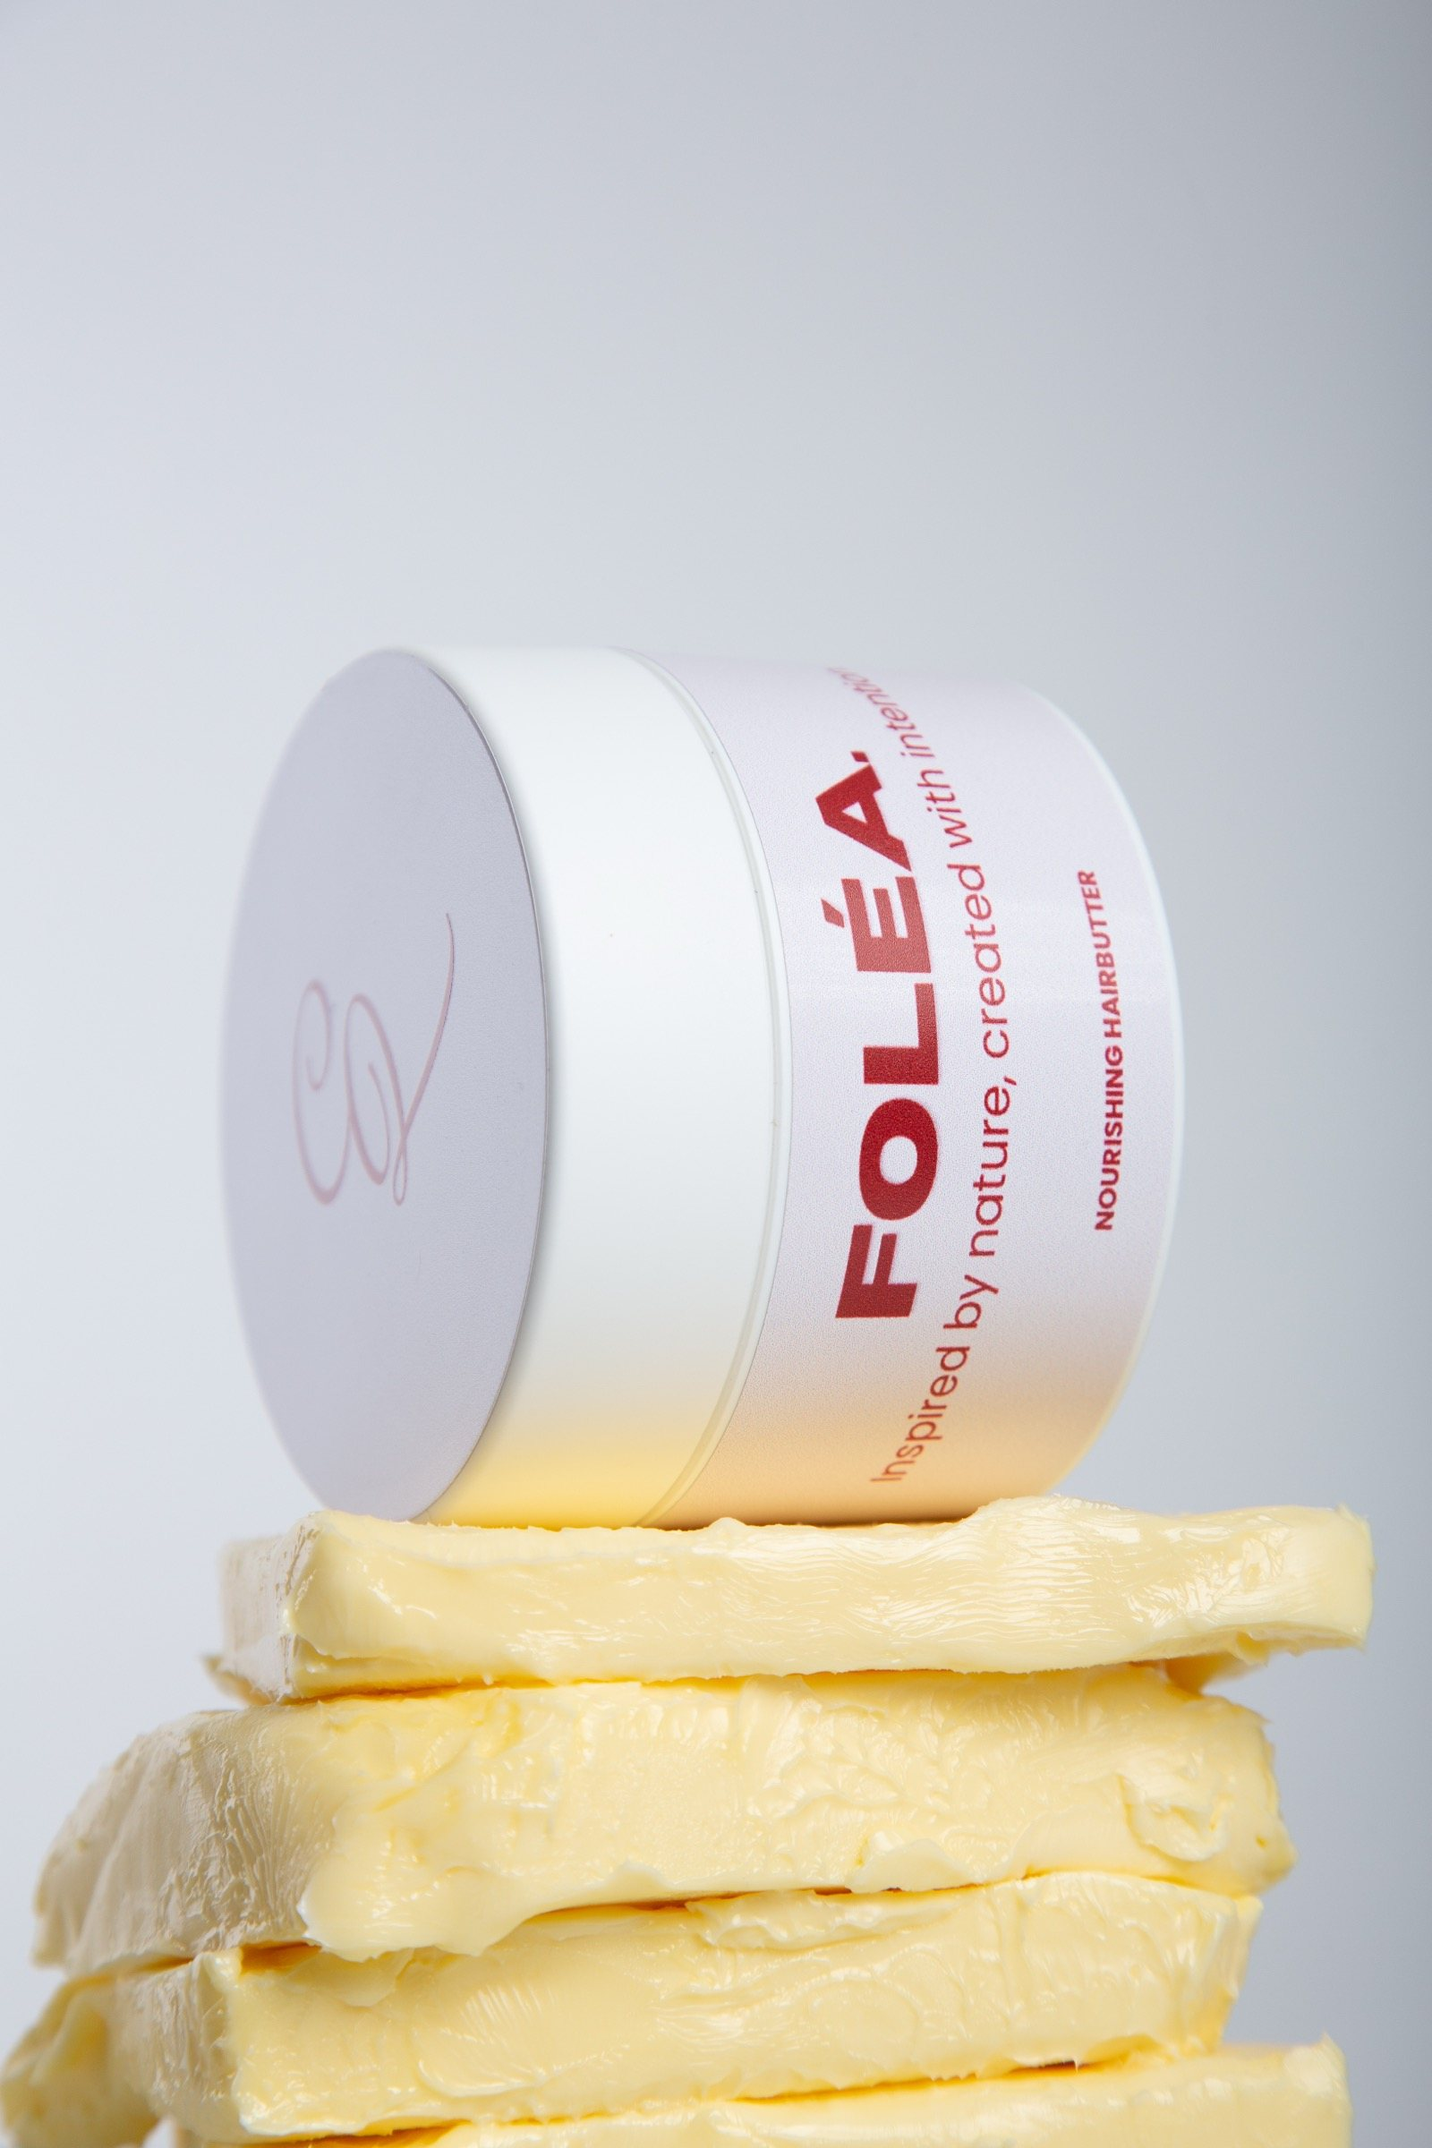
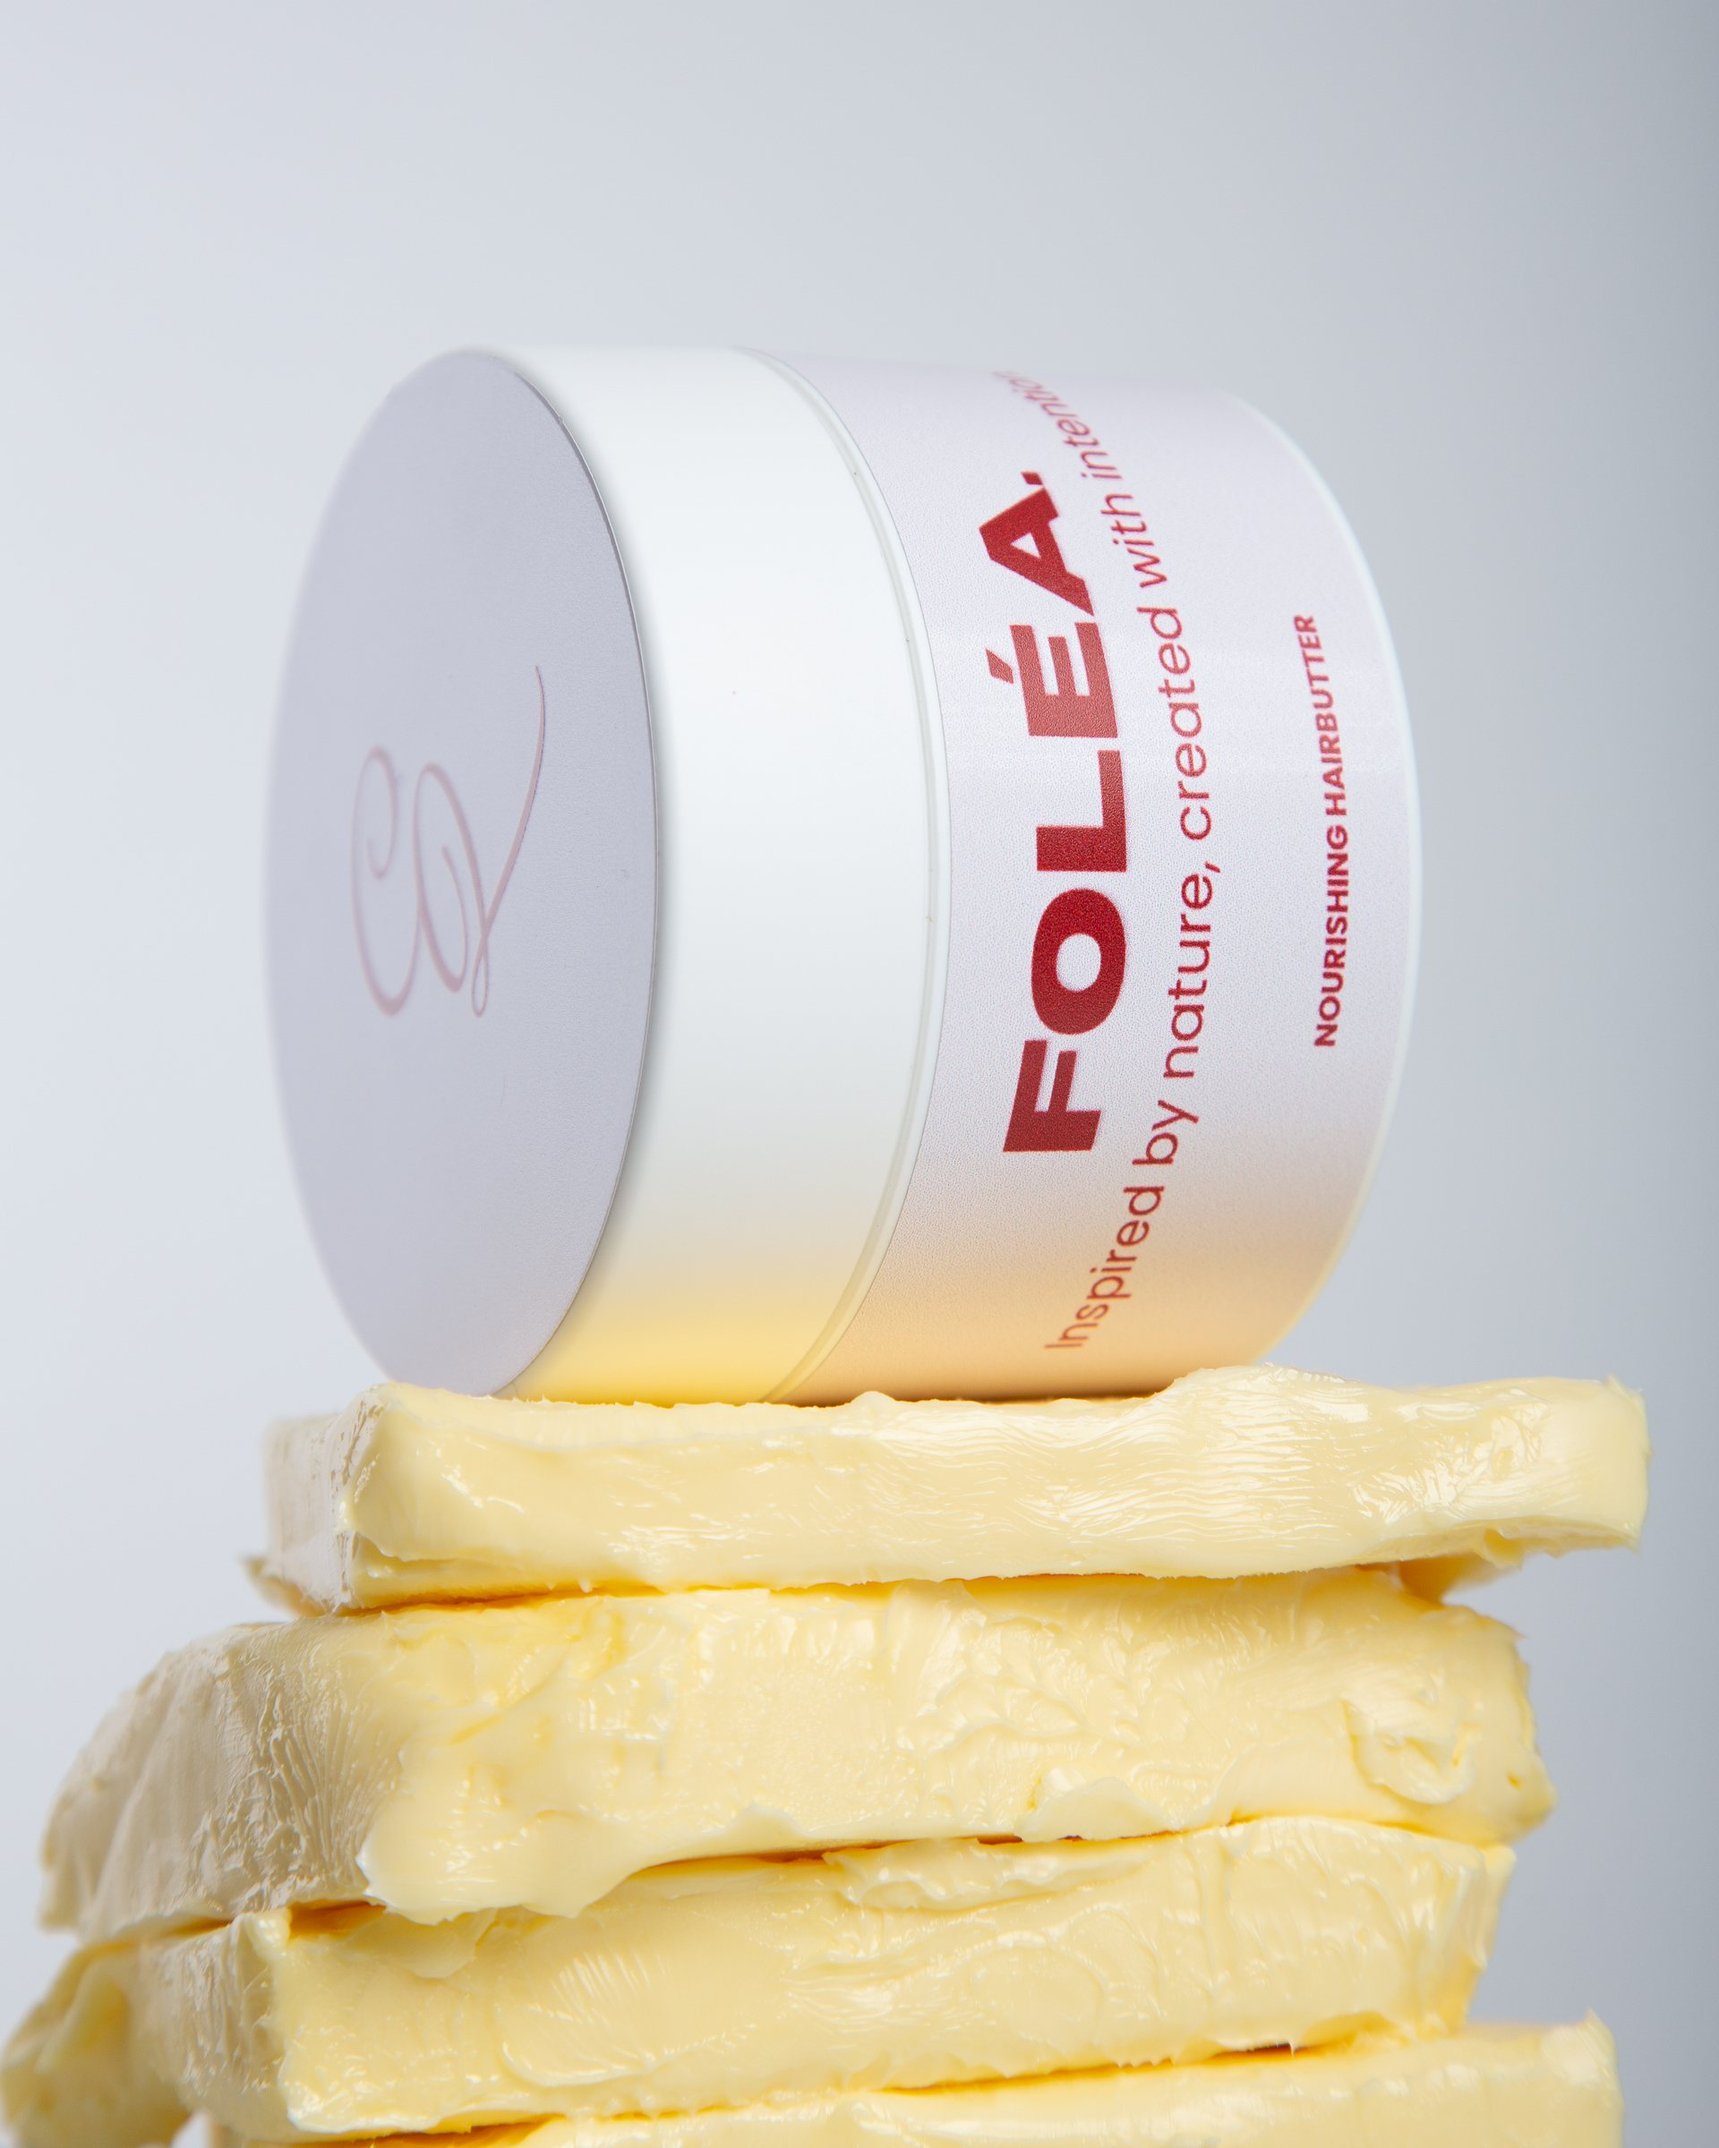
Productfoto's opnieuw uitgesneden vanaf de masters
De klant vond de productfoto's niet mooi. De oorzaak bleek de kadrering
te zijn en niet de fotografie: in de masters vult de pot 8% van het beeld
op product-front, 12% op product-top, 15% op product-trio en 19% op
product-duo. De rest was leeg grijs, en dat is precies wat de foto's zwak
en willekeurig maakte naast de rest van de site.

Alle zes de stills zijn opnieuw uitgesneden vanaf de masters van
3264x4896 en staan nu strak op het product, in één verhouding van 4:5
op 1920x2400. Dat kost geen resolutie en er is geen enkele bewerking op
het product zelf gedaan, dus wat je op de site ziet is nog steeds de
gefotografeerde pot.

product-trio was liggend en werd daardoor als enige met balken getoond in
de galerij; die is nu staand met twee potten, met de rechterrand in de
tussenruimte zodat er geen halve derde pot in beeld hangt.

diff --git a/CLAUDE.md b/CLAUDE.md
@@ -180,7 +180,11 @@ The client's full studio shoot has been delivered and is in rotation. Nineteen s
 - **Product stills**: `product-butter.jpg` (jar on a stack of real butter) is **the** product image, on the client's explicit instruction — don't swap it for a lifestyle shot. Plus `product-trio.jpg`, `product-drip.jpg`, `product-front.jpg`, `product-top.jpg`, `product-duo.jpg`.
 - **Model shots**, all 2:3 portrait: `model-*.jpg` (sixteen files) covering both hair textures. `model-duo-floor.jpg` is the one the client singled out as especially good; it carries the full-bleed `FullBleedImage` section.
 
-Because most of the shoot is 2:3 portrait while `product-trio` is 3:2 landscape, **the PDP gallery uses `object-contain` in a fixed frame rather than `object-cover` in a square** — cropping cut the jar off, which the client flagged. Keep that in mind for any new image frame: check the aspect ratio of the file before choosing a container.
+**The six product stills are all 4:5 (1920x2400) and cropped tight from the masters.** The client said the product photos looked weak, and the measurable cause was framing, not the photography: in the master files the jar filled only 8% of the frame on `product-front`, 12% on `product-top`, 15% on `product-trio` and 19% on `product-duo`. The web versions inherited that dead space. Since the masters are 3264x4896, cropping in hard still leaves ~1900px of width, so this cost nothing in resolution and needed no AI.
+
+The crop pass is reproducible: find the product's bounding box by thresholding brightness (white jar against grey seamless) plus the red-minus-blue channel (pink label and carmine type), pad it, force the box to 4:5, then encode from the master with `cjpeg -quality 84 -optimize -progressive`. **Detect the box with a generous threshold**: a strict one clips the jars' soft edges, and the first pass cut a jar in half at the frame edge. `product-trio` additionally needs its right edge clamped into the gap between the second and third jar, otherwise a sliver of the third jar hangs in frame.
+
+Because every still is now exactly 4:5, the PDP gallery's `object-contain` no longer crops anything away; it was there because `product-trio` used to be 3:2 landscape while the rest were 2:3. The frame itself (`aspect-[4/5]` on mobile, `sm:h-[560px]` with a flex width above it) still letterboxes at mid widths, so it is worth revisiting if you touch that component. Check the aspect ratio of the file before choosing any new image frame.
 
 No "photos coming soon" placeholders anywhere; that was tried (ImagePlaceholder/CampaignPreview/StudioPeek) and removed on request. The Instagram grid still uses dummy links, with real shoot photos as tiles.
 

diff --git a/HANDOVER.md b/HANDOVER.md
@@ -69,7 +69,7 @@ src/
 ### Assets
 - `public/video/hero.mp4` (4,3MB, 1920px) en `hero-mobile.mp4` (569KB, 1280px) + `hero-poster.jpg` (89KB). De mobiele variant staat als eerste `<source>` met `media="(max-width: 767px)"`, omdat de volledige video op mobiele data merkbaar traag startte. Bron: `IMG_9125.MOV`.
 - `public/video/product-pour.mp4` (524KB, 1248x1664, 5s) + `product-pour-poster.jpg` — de honingcinemagraph in Over Ons ("Het begin"), niet meer op de PDP. Opnieuw gegenereerd op verzoek van de klant: de eerste versie liet een dikke straal links op de bovenste pot vallen, waardoor de honing dwars over FOLÉA liep. Nu valt een dun straaltje op de **witte deksel rechts** van de bovenste pot en blijft het woordmerk op beide potten leesbaar. Bron en startframe in `source-media/video/`.
-- `public/images/product-*.jpg` (6 productstills) en `model-*.jpg` (16 modelfoto's, 2:3 staand) — de volledige studioshoot van de klant, allemaal 1600x2400 of 2400x1600. Masters staan als `Folea-0xx.jpg` in `source-media/images/` (git-ignored).
+- `public/images/product-*.jpg` (6 productstills, nu allemaal 4:5 op 1920x2400) en `model-*.jpg` (16 modelfoto's, 2:3 staand, 1600x2400). De productstills zijn opnieuw uitgesneden vanaf de masters omdat de pot er veel te klein op stond: op `product-front` vulde die maar 8% van het beeld. Masters staan als `Folea-0xx.jpg` in `source-media/images/` (git-ignored).
 - **De oude 100KB-regel is vervallen**; die maakte de foto's te klein voor full-bleed en retinaschermen. Nu: 2400px langste zijde op q84, ~7MB voor de map. `next/image` comprimeert de bron alsnog naar 30-80KB WebP, dus de pagina wordt er niet zwaarder van. De werkwijze en de twee valkuilen (dev server herstarten na het vervangen van bestanden, en `naturalWidth` niet vertrouwen in de preview) staan in CLAUDE.md.
 - De AI-gegenereerde `portfolio-*.jpg` en `blog-*.jpg` beelden zijn verwijderd samen met hun pagina's.
 - `src/app/fonts/Horizon.woff2` (17KB) is het displaylettertype; de OTF-varianten en Horizon Outlined staan in `source-media/fonts/`.
